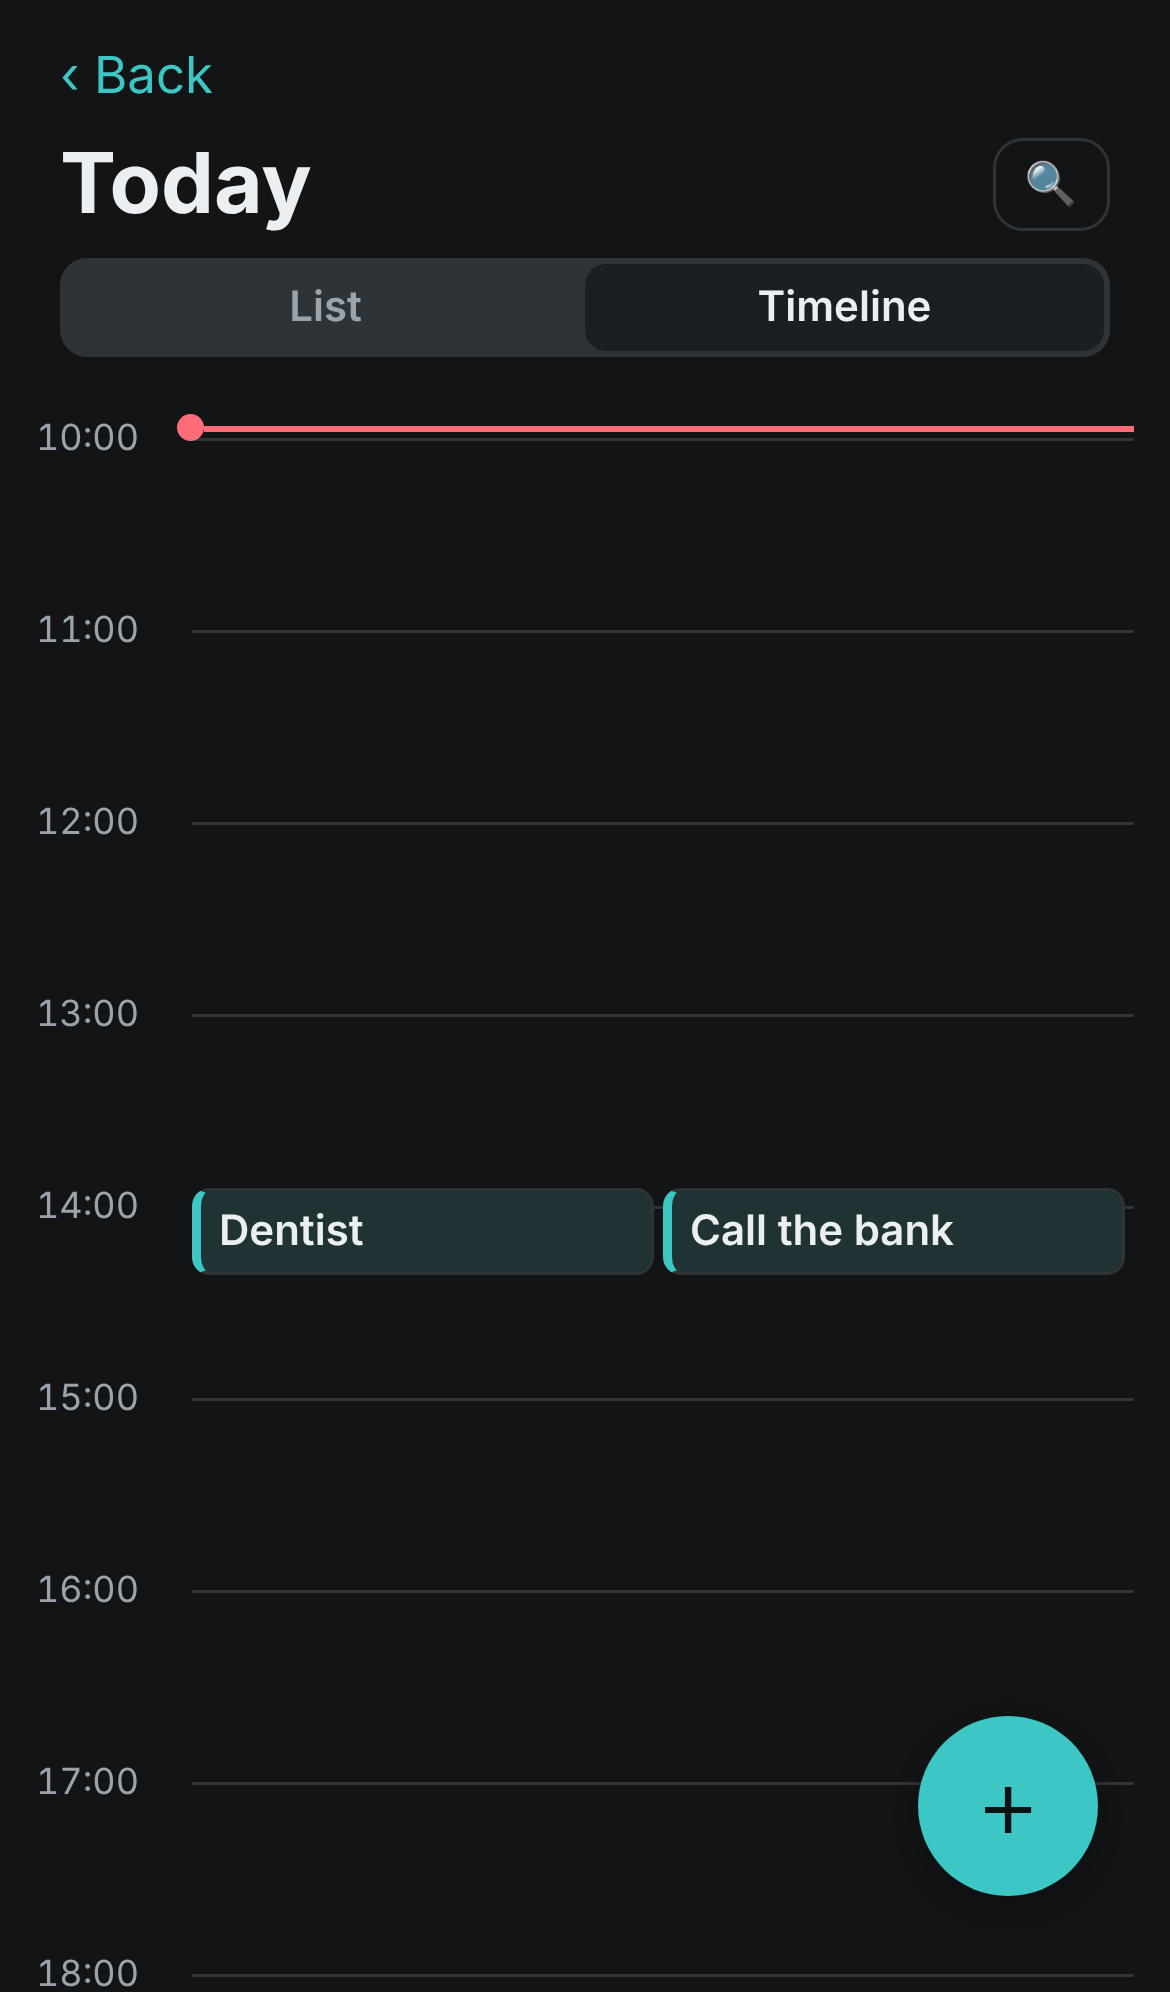
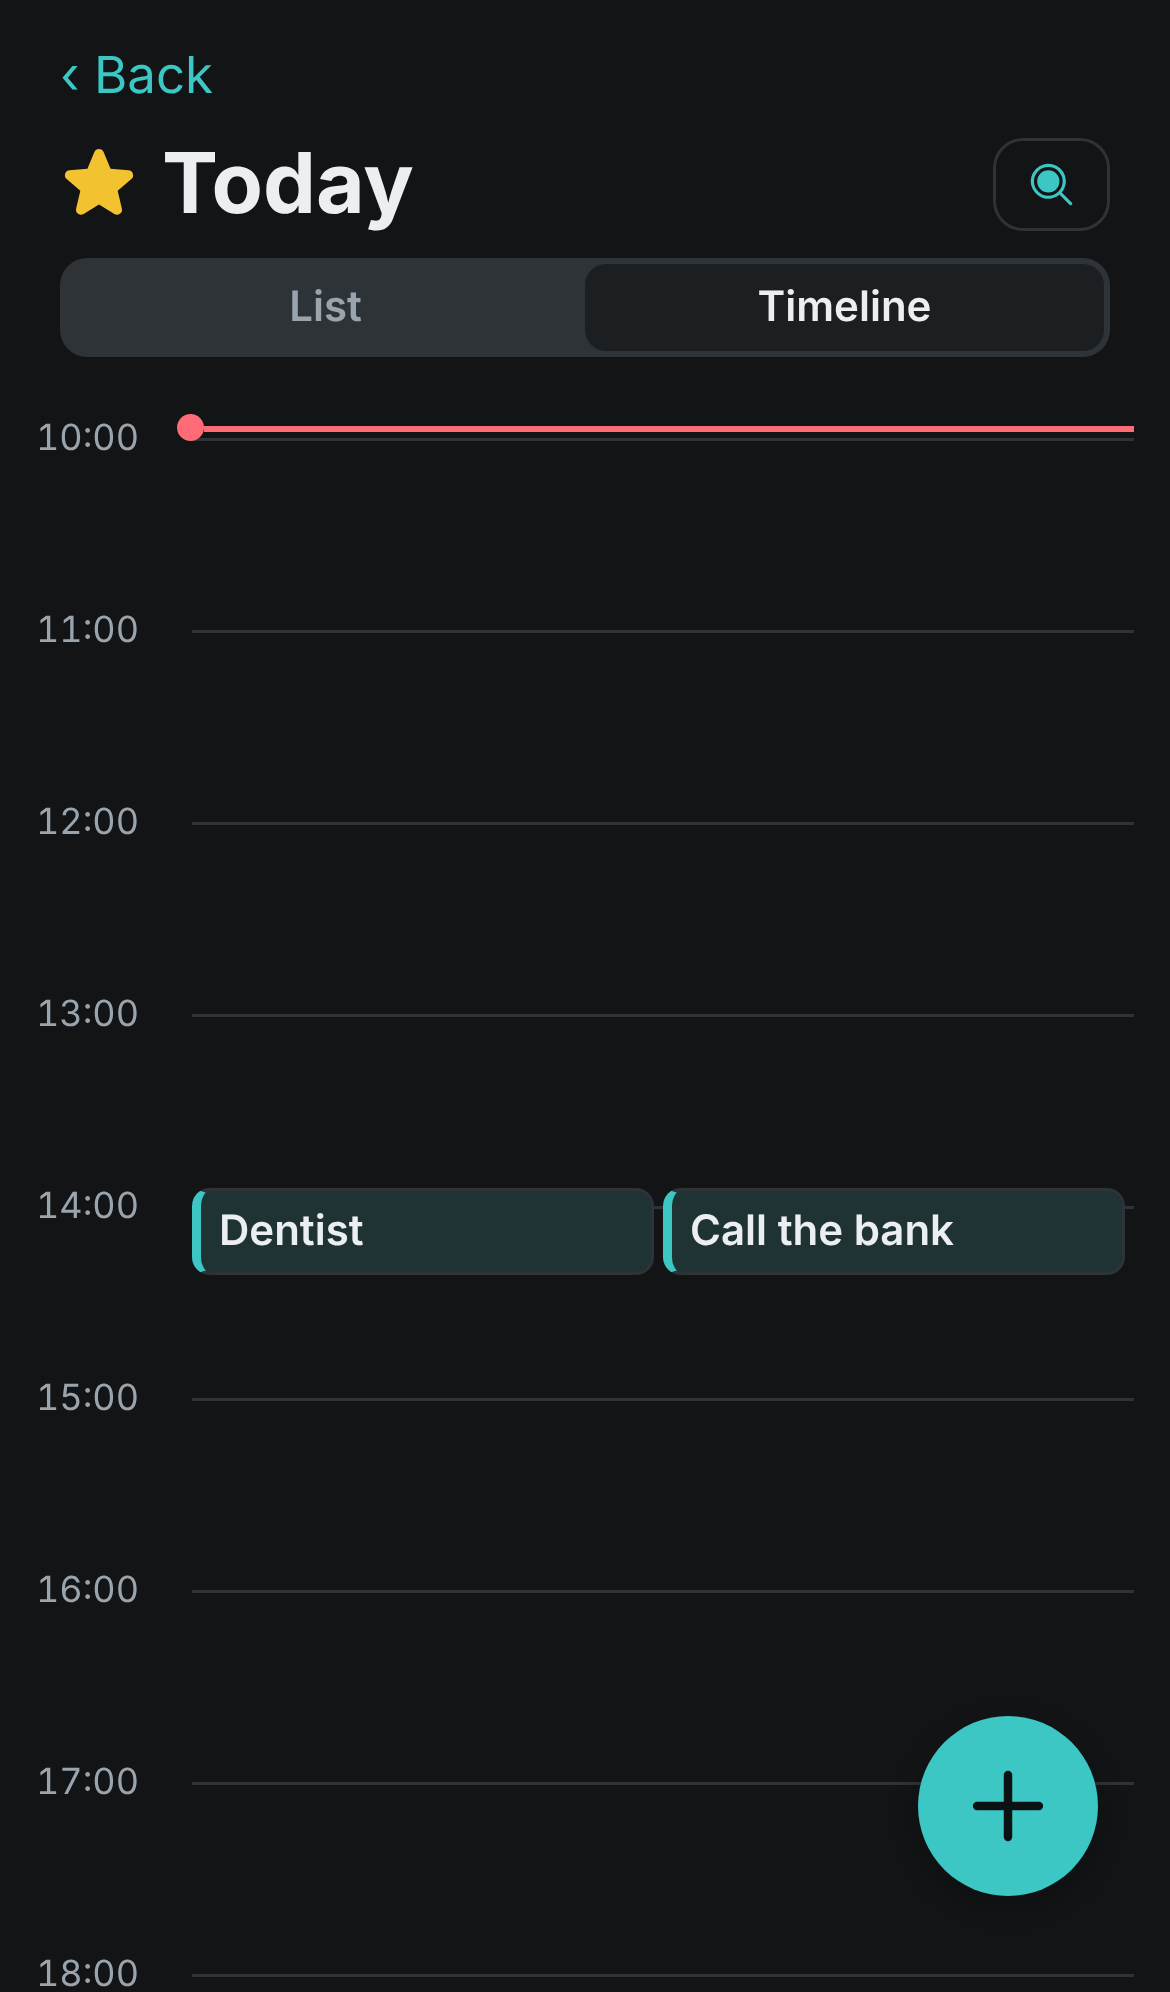
Update the README for Milestones 1 and 2
Describe the Milestone 2 planning features in glossary terms, the
Phosphor icons and the iPhone web-app fixes. Mark M2 done and M3 in
progress, refresh the iPhone section now that Pages is live and the
repo is public, and bring the commands, lint rules, agent working rules
and docs map up to date. Refresh the timeline screenshots, which still
showed the old emoji search icon.

Claude-Session: https://claude.ai/code/session_01FRk4fs6K6M3jpQaprNa7ZP

Changed region(s): [[0.0615, 0.0622, 0.3692, 0.1245], [0.8615, 0.0622, 0.9231, 0.1245], [0.8308, 0.9026, 0.8923, 0.9337]]

diff --git a/README.md b/README.md
@@ -3,40 +3,47 @@
 A personal To-do app for one person, built with React Native and Expo, that keeps everything on your device and works offline.
 
 <p>
-  <img src="docs/screenshots/milestone-1/today-light.png" alt="Today in light mode" width="240" />
-  <img src="docs/screenshots/milestone-1/project-light.png" alt="A Project with Headings in light mode" width="240" />
-  <img src="docs/screenshots/milestone-1/sidebar-dark.png" alt="The sidebar in dark mode" width="240" />
+  <img src="docs/screenshots/milestone-1/today-light.png" alt="Today in light mode" width="200" />
+  <img src="docs/screenshots/milestone-2/timeline-light.png" alt="Today's timeline with Time slots" width="200" />
+  <img src="docs/screenshots/milestone-1/project-light.png" alt="A Project with Headings in light mode" width="200" />
+  <img src="docs/screenshots/milestone-1/sidebar-dark.png" alt="The sidebar in dark mode" width="200" />
 </p>
 
 ## What works today
 
-Milestone 1 (core, offline, single device) is done. Words in capitals are defined in [`GLOSSARY.md`](GLOSSARY.md).
+Milestones 1 (core) and 2 (planning) are done. Words in capitals are defined in [`GLOSSARY.md`](GLOSSARY.md).
+
+**Organising (Milestone 1)**
 
 - **To-dos** with notes (Markdown), a Checklist, Sub-to-dos (one level deep) and Tags.
 - **Areas** and **Projects**, with **Headings** inside Projects and a progress pie on each Project.
 - **Built-in lists**: Inbox, Today (with This Evening), Upcoming, Anytime, Someday, Logbook and Trash.
-- **Start date** (shown as "When") and **Deadline**; Completed and Cancelled outcomes. Things you finish move to the Logbook at the end of the day, straight away, or by hand (Settings). Trash empties itself after 30 days.
-- **Magic Plus** to add a To-do anywhere, **swipe actions** (right for When, left to select), **multi-select** for bulk changes, and **dragging** with the ≡ handle to reorder or drop on a list.
+- **Start date** (shown as "When") and **Deadline**; Completed and Cancelled outcomes. Finished To-dos move to the Logbook at the end of the day, straight away, or by hand (Settings). Trash empties itself after 30 days.
+- **Magic Plus** to add a To-do anywhere, **swipe actions**, **multi-select** for bulk changes, and **dragging** to reorder or drop on a list.
 - **Quick Find** across To-do titles, notes and Checklist items, and the names of Areas, Projects, Headings and Tags.
-- Light and dark mode follow the system; six accent colours, teal by default.
 
-Not yet:
+**Planning (Milestone 2)**
 
-- Repeat rules, Priority, Energy, Estimate, Time slots, Smart Lists and quick entry shorthand (Milestone 2).
-- Sign-in, sync, attachments, export and backup (Milestone 3). Until then **your data lives in one place**: one phone, or one browser.
-- Reminders, notifications and calendar (Milestone 4); share sheet, Place Reminders, widgets, Siri and Watch (Milestone 5, switched off for now, see [ADR 0003](docs/adr/0003-features-gated-without-apple-developer-account.md)).
-- Milestone 1 was checked in a headless browser at iPhone size. It has **not been tried in Expo Go on a real phone** yet, nor on Android.
+- **Priority** (low, medium, high), **Energy** (low, high) and **Estimate** in minutes. Today's header shows the total Estimate.
+- **Time slots**: a start and end time on the Start date. Today switches between List and a **timeline** of the day, with overlapping slots side by side.
+- **Repeat rules**, on schedule or after completion. Schedules go as far as "the last weekday of the month" or "the 2nd Tuesday of March", and a rule can end never, after N occurrences, or on a date. Upcoming shows **projected dates** as dashed rows. Editing a repeating To-do asks "this one or all future ones".
+- **Smart Lists** in the sidebar: saved filters on Tags, Areas, Projects, Start date, Deadline, Priority, Energy and Estimate. Different kinds combine with AND, values of one kind with OR.
+- **Quick entry shorthand**: `Buy milk tomorrow #errand !high ~15m @14:00` adds "Buy milk" for tomorrow, tagged errand, high Priority, a 15-minute Estimate and a 14:00 Time slot. Dates also read as `today`, `fri`, `next fri`, `on 12 Dec`, `in 3 days`, `tonight` and `someday`.
+
+**Look and feel**
+
+- **Phosphor icons** with a colour per list. Light and dark mode follow the system; six accent colours, teal by default.
+- **iPhone web-app fixes**: the keyboard no longer covers the new To-do field, no white shows behind sheets, and the status bar blends into the app instead of a white band.
+
+**Not yet**
+
+- Sign-in, sync, attachments, export and backup (Milestone 3, in progress). The Supabase project exists, but until Milestone 3 lands **your data lives in one place**: one phone, or one browser.
+- Reminders, notifications and calendar (Milestone 4); share sheet, Place Reminders, widgets, Siri, Watch and email-to-Inbox (Milestone 5, switched off, see [ADR 0003](docs/adr/0003-features-gated-without-apple-developer-account.md)).
+- The app has been used on an iPhone as a Home Screen web app, but **not yet in Expo Go** or on Android.
 
 ## Use it on your iPhone (no laptop)
 
-The app runs as a web app saved to your Home Screen. It has no server: GitHub only hosts the app's code, and your To-dos are stored in the browser on your phone.
-
-**One-time setup** (in Safari, at github.com; the GitHub app doesn't show repository settings):
-
-1. Open the repository → **Settings** → **Pages**.
-2. Under **Build and deployment**, set **Source** to **GitHub Actions**.
-
-**Publish the app.** This happens on every push to `main`. To run it by hand: **Actions** → **Deploy web app** → **Run workflow**. It takes a few minutes; a green tick means it's live.
+The app runs as a web app saved to your Home Screen. It is published with GitHub Pages at <https://peucmccann.github.io/My-Things-1/>. GitHub only hosts the app's code; your To-dos are stored in the browser on your phone.
 
 **Install it:**
 
@@ -44,11 +51,12 @@ The app runs as a web app saved to your Home Screen. It has no server: GitHub on
 2. Tap **Share** → **Add to Home Screen** → **Add**.
 3. Open MyThings from the Home Screen. It runs full screen, like an app, and picks up a newly published version when it starts (swipe it away in the app switcher if it doesn't).
 
+**Publishing.** [`pages.yml`](.github/workflows/pages.yml) publishes on every push to `main`. To run it by hand: **Actions** → **Deploy web app** → **Run workflow**. A green tick means it's live.
+
 **Good to know:**
 
-- **GitHub plan.** Pages for a private repository needs a paid plan (Pro or Team). The site is public even though the repository is private. It only serves the app's code; your data never leaves your phone.
-- **Data is per browser.** The Home Screen app and a Safari tab keep separate data, so pick one (the Home Screen app). Clearing Safari's website data deletes your To-dos, and there is no export until Milestone 3.
-- **If Pages isn't available on your plan**, connect the repository to [Netlify](https://www.netlify.com) or [Cloudflare Pages](https://pages.cloudflare.com) from your phone's browser (both free). Use build command `npx expo export --platform web` and output directory `dist`. Those sites serve at the root, so no other settings are needed.
+- **Data is per browser.** The Home Screen app and a Safari tab keep separate data, so use the Home Screen app. Clearing Safari's website data deletes your To-dos, and there is no export until Milestone 3.
+- **Another host.** Any static host works too, such as Netlify or Cloudflare Pages: build with `npx expo export --platform web` and serve `dist`.
 
 ## Run it with a computer
 
@@ -63,52 +71,67 @@ Then scan the QR code with the camera to open it in [Expo Go](https://expo.dev/g
 
 ## Development
 
-| Command                       | What it does                                         |
-| ----------------------------- | ---------------------------------------------------- |
-| `npm test`                    | Core tests (Vitest)                                  |
-| `npm run lint`                | ESLint                                               |
-| `npm run typecheck`           | `tsc --noEmit`                                       |
-| `npm run format`              | Prettier                                             |
-| `npm run test:ui`             | Playwright UI checks on the web build at iPhone size |
-| `npm run check:expo`          | Expo-pinned packages match the SDK's versions        |
-| `npx expo start`              | Dev server (Expo Go on the phone, or `w` for web)    |
-| `node scripts/make-icons.mjs` | Redraws the app icons, splash and Home Screen icons  |
+| Command                       | What it does                                                                          |
+| ----------------------------- | ------------------------------------------------------------------------------------- |
+| `npm test`                    | Vitest: core tests, plus pure helpers in `src/app`                                    |
+| `npm run lint`                | ESLint                                                                                |
+| `npm run typecheck`           | `tsc --noEmit`                                                                        |
+| `npm run format`              | Prettier                                                                              |
+| `npm run test:ui`             | Playwright UI checks on the web build at iPhone size (`UI_PORT=8090` for a free port) |
+| `npm run check:expo`          | Expo-pinned packages match the SDK's versions                                         |
+| `npx expo start`              | Dev server (Expo Go on the phone, or `w` for web)                                     |
+| `node scripts/make-icons.mjs` | Redraws the app icons, splash and Home Screen icons                                   |
 
-**Checks.** The pre-commit hook runs ESLint and Prettier on staged files, the Expo version check, the typecheck and the tests. CI ([`ci.yml`](.github/workflows/ci.yml)) runs all of that on every push, plus Prettier across all files, the web build and the UI checks. [`pages.yml`](.github/workflows/pages.yml) publishes the web app.
+**Checks.** The pre-commit hook runs ESLint and Prettier on staged files, the Expo version check, the typecheck and the tests. CI ([`ci.yml`](.github/workflows/ci.yml)) runs the same on every push, plus Prettier across all files, the web build and the UI checks. ESLint also enforces:
+
+- `src/core/` imports no React, React Native or Expo, and uses glossary words: no `task`, `label`, `dueDate` or `item` in identifiers (Checklist item is fine).
+- Core tests import only the core's actions, queries and types, never internal modules.
+- App text says To-do and Tag, not "task", "item" or "label", and uses the Icon component, not emoji.
+- Gestures use react-native-gesture-handler, not `PanResponder` ([ADR 0004](docs/adr/0004-gestures-with-react-native-gesture-handler.md)).
 
 **Code layout.**
 
-- `src/core/` holds every rule from [`docs/plan.md`](docs/plan.md), as actions and list queries. It must not import React, React Native or Expo (ESLint enforces this); the clock and storage are passed in. Names follow the glossary, and ESLint rejects avoided words such as `task`, `label` and `dueDate`.
-- `src/app/` is the React Native UI. It saves the whole store as one JSON snapshot in AsyncStorage (the file system in Expo Go, `localStorage` on the web). ESLint rejects "task", "label" and "item" in text people read.
+- `src/core/` holds every rule from [`docs/plan.md`](docs/plan.md), as actions and list queries. The clock and storage are passed in.
+- `src/app/` is the React Native UI. It saves the whole store as one JSON snapshot in AsyncStorage (the file system in Expo Go, `localStorage` on the web).
 - `e2e/` holds the Playwright UI checks; `scripts/` holds small Node helpers.
-- `public/index.html` is the web page template (Home Screen meta tags and icons). `app.config.js` sets Expo's `experiments.baseUrl` from `EXPO_BASE_URL`, so only the Pages build is served from `/My-Things-1/`.
+- `public/index.html` is the web page template (Home Screen meta tags, icons, status bar and background colours). `app.config.js` sets Expo's `experiments.baseUrl` from `EXPO_BASE_URL`, so only the Pages build is served from `/My-Things-1/`.
 
-**Testing.** Core tests sit next to the code as `*.test.ts` and go through actions and queries only, never internal records. The UI checks run against the exported web build in Chromium at iPhone 13 size. `SCREENSHOTS=1 npm run test:ui -- screenshots` refreshes `docs/screenshots/`.
+**Testing.** Core tests sit next to the code as `*.test.ts`. The UI checks run against the exported web build in Chromium at iPhone 13 size. `SCREENSHOTS=1 npm run test:ui -- screenshots dayTimeline` refreshes `docs/screenshots/`.
 
 **Expo.** The project is on Expo SDK 58; check the [versioned docs](https://docs.expo.dev/versions/v58.0.0/) before using an Expo API. Add packages with `npx expo install <package>`. Only modules bundled in Expo Go can be used, and `ios/` and `android/` are never edited by hand ([ADR 0003](docs/adr/0003-features-gated-without-apple-developer-account.md)).
 
 **Playwright pin.** `@playwright/test` is pinned to the exact version whose Chromium is preinstalled in cloud sessions (`/opt/pw-browsers`), where Playwright cannot download a browser. Keep that pin when upgrading; elsewhere run `npx playwright install chromium` once.
 
+**Working with agents.** The full rules are in [`CLAUDE.md`](CLAUDE.md); in short:
+
+- Read a file before editing it, and re-read it after committing, because the hook rewrites staged files with Prettier.
+- One git command per shell call; write commit messages to a file and commit with `git commit -F <file>`.
+- Never skip tests or bypass hooks.
+- A coordinator hands each ticket to an implementer with [`docs/agents/implementer-brief.md`](docs/agents/implementer-brief.md), one worktree and `UI_PORT` per ticket.
+
 ## Project docs
 
-| Where                                    | What it's for                                                                       |
-| ---------------------------------------- | ----------------------------------------------------------------------------------- |
-| [`docs/plan.md`](docs/plan.md)           | The design: platform, behaviour rules and milestones.                               |
-| [`GLOSSARY.md`](GLOSSARY.md)             | The words the app and code use, and the ones to avoid.                              |
-| [`docs/adr/`](docs/adr/)                 | Hard-to-reverse decisions: Expo, local-first sync, features gated without Apple.    |
-| [`CLAUDE.md`](CLAUDE.md)                 | Instructions for coding agents.                                                     |
-| [`docs/agents/`](docs/agents/)           | How agents use the issue tracker (GitHub Issues), triage labels and domain docs.    |
-| [`docs/wiki/`](docs/wiki/index.md)       | A dated record of decisions, runs, problems and retros. History, not current truth. |
-| [`docs/screenshots/`](docs/screenshots/) | Screens at iPhone size, light and dark, per milestone.                              |
+| Where                                                                     | What it's for                                                                              |
+| ------------------------------------------------------------------------- | ------------------------------------------------------------------------------------------ |
+| [`docs/plan.md`](docs/plan.md)                                            | The design: platform, behaviour rules and milestones.                                      |
+| [`GLOSSARY.md`](GLOSSARY.md)                                              | The words the app and code use, and the ones to avoid.                                     |
+| [`docs/adr/`](docs/adr/)                                                  | Hard-to-reverse decisions: Expo, local-first sync, features gated without Apple, gestures. |
+| [`CLAUDE.md`](CLAUDE.md)                                                  | Instructions for coding agents.                                                            |
+| [`docs/agents/`](docs/agents/)                                            | How agents use the issue tracker (GitHub Issues), triage labels and domain docs.           |
+| [`docs/agents/implementer-brief.md`](docs/agents/implementer-brief.md)    | The brief a coordinator fills in for each ticket it hands to an implementer.               |
+| [`docs/wiki/`](docs/wiki/index.md)                                        | A dated record of decisions, runs and problems. History, not current truth.                |
+| [`docs/wiki/retros/`](docs/wiki/retros/)                                  | Retros on the Milestone 1 and 2 build sessions.                                            |
+| [`docs/screenshots/`](docs/screenshots/)                                  | Screens at iPhone size, light and dark, per milestone.                                     |
+| [`.claude/skills/chief-of-staff`](.claude/skills/chief-of-staff/SKILL.md) | The skill that delegates work to subagents and keeps the wiki.                             |
 
 ## Roadmap
 
-| Milestone                                                                                                | Status                  |
-| -------------------------------------------------------------------------------------------------------- | ----------------------- |
-| 1. Core, offline, single device                                                                          | Done (merged in PR #20) |
-| 2. Planning: Repeat rules, Priority, Energy, Estimate, Time slots, Smart Lists, quick entry              | Not started             |
-| 3. Sync: sign-in, Supabase sync, attachments, export and backup                                          | Not started             |
-| 4. Phone integrations: Reminders and notifications, calendar events, Apple Reminders import              | Not started             |
-| 5. Share sheet, Place Reminders, widgets, Siri, Watch, email-to-Inbox (needs an Apple Developer account) | Switched off            |
+| Milestone                                                                                                | Status                                                      |
+| -------------------------------------------------------------------------------------------------------- | ----------------------------------------------------------- |
+| 1. Core, offline, single device                                                                          | Done (PR #20)                                               |
+| 2. Planning: Repeat rules, Priority, Energy, Estimate, Time slots, Smart Lists, quick entry              | Done (PRs #36, #37, #38; tickets #22–#32)                   |
+| 3. Sync: sign-in, Supabase sync, attachments, export and backup                                          | In progress: Supabase project `mionebydpkthdqxljrow` set up |
+| 4. Phone integrations: Reminders and notifications, calendar events, Apple Reminders import              | Not started                                                 |
+| 5. Share sheet, Place Reminders, widgets, Siri, Watch, email-to-Inbox (needs an Apple Developer account) | Switched off                                                |
 
 The full spec is issue #2.
